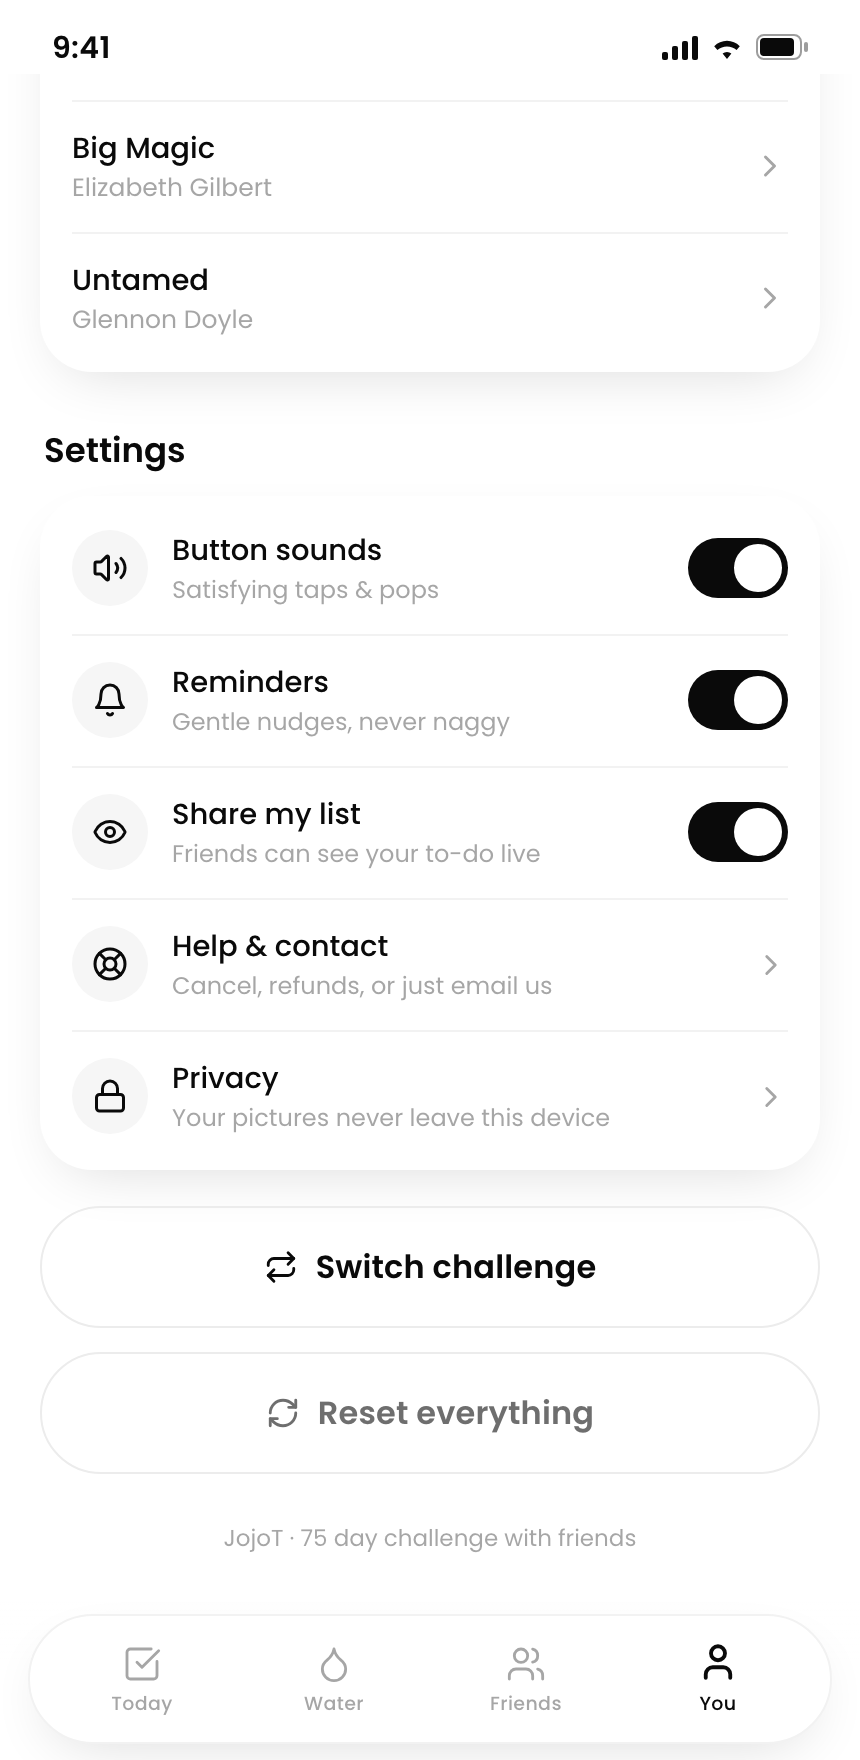
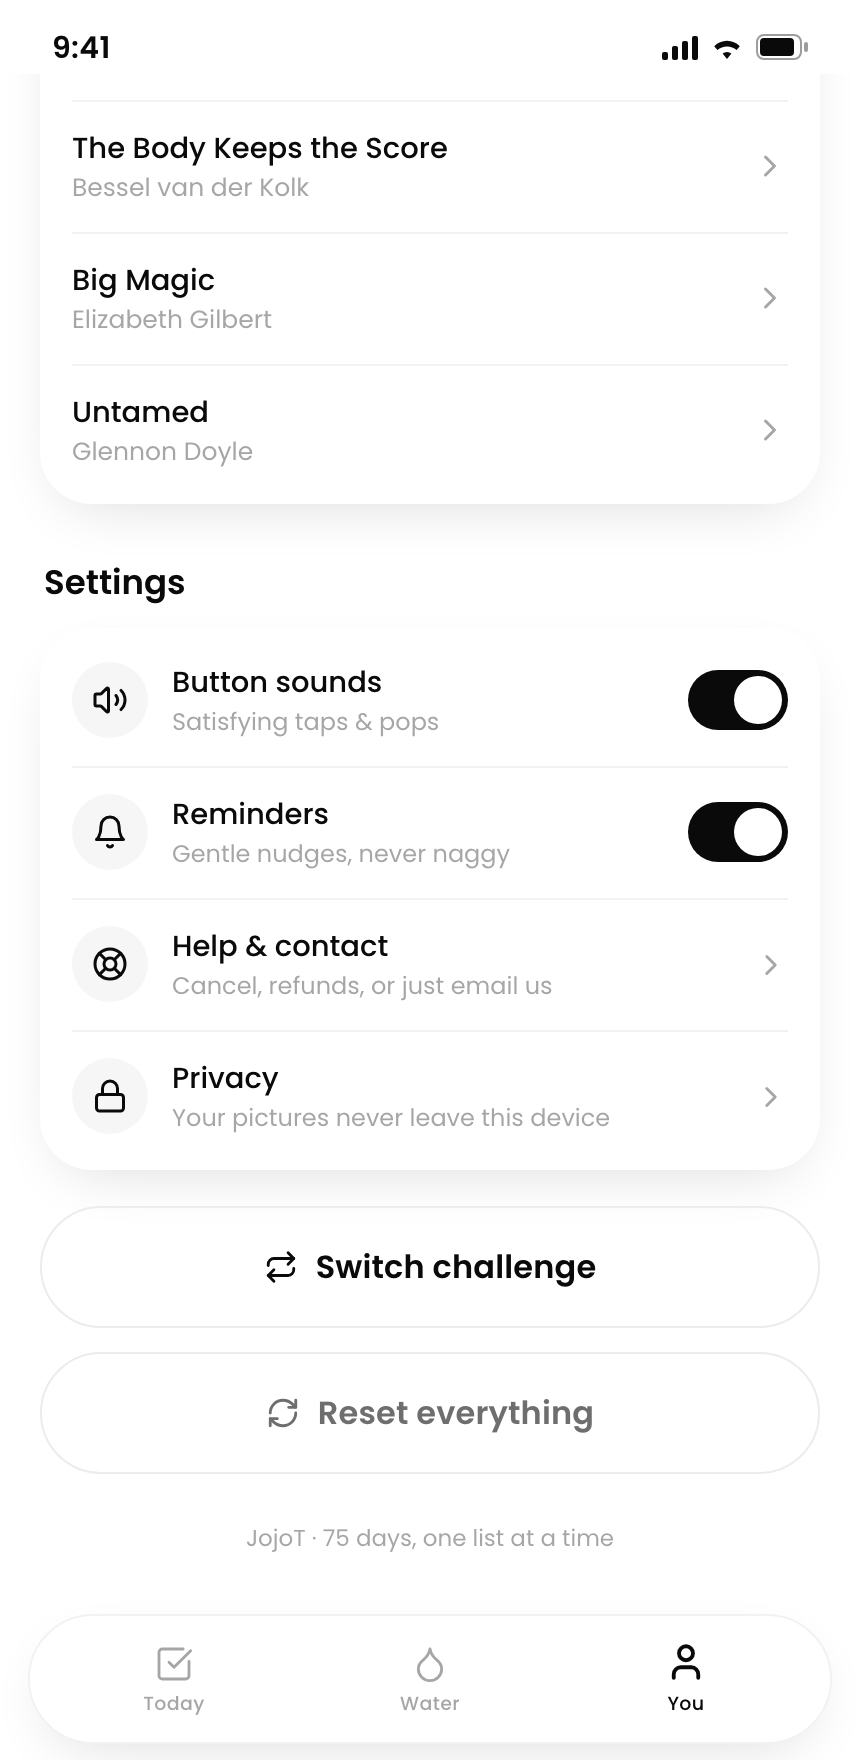
Remove the Friends feature — it was the last false paywall claim
"See your friends' to-do lists in real time" was the headline
promise, and behind it were five hardcoded people in data.ts whose
lists never moved. No accounts, no network calls, nothing to be
real-time about. A reviewer opening that tab finds it in seconds,
and it is a Guideline 2.3.1 rejection, not a rough edge.

With Supabase deferred until after launch, the honest move is to
ship without it: tab, screen, fixtures and paywall bullet all gone,
along with the onboarding slide and settings toggle that promised
the same thing. Everything the paywall now sells is something the
build actually does.

This comes back in 1.1 with a backend under it. The shareWithFriends
flag stays in persisted state so returning users keep their setting.

Claude-Session: https://claude.ai/code/session_018C9xQwzrZSWhcVwAr8vDtd

diff --git a/src/lib/data.ts b/src/lib/data.ts
@@ -1,5 +1,5 @@
 /* ============================================================
-   data.ts — challenge presets, seed friends, inspiration.
+   data.ts — challenge presets and inspiration boards.
 
    Task `kind` drives how a row behaves on the Today screen:
      check  — plain tick
@@ -187,94 +187,10 @@ export const NOTE_COLORS = [
   'var(--note-6)',
 ]
 
-/* ------------------------------------------------------------------ */
-/* Friends                                                             */
-/* ------------------------------------------------------------------ */
-
-export type FriendTask = { text: string; done: boolean; at?: string }
-
-export type Friend = {
-  id: string
-  name: string
-  initial: string
-  tone: string
-  day: number
-  challenge: string
-  tasks: FriendTask[]
-}
-
-export const FRIENDS: Friend[] = [
-  {
-    id: 'f1',
-    name: 'Maddy',
-    initial: 'M',
-    tone: 'linear-gradient(135deg,#8e8e8e,#3f3f3f)',
-    day: 75,
-    challenge: '75 Hard',
-    tasks: [
-      { text: 'Walk 10,000 steps', done: false },
-      { text: 'Read 10 pages', done: false },
-      { text: 'Workout', done: false },
-      { text: 'Follow a strict diet', done: true, at: '11:45am' },
-    ],
-  },
-  {
-    id: 'f2',
-    name: 'Anna',
-    initial: 'A',
-    tone: 'linear-gradient(135deg,#a8a8a8,#585858)',
-    day: 75,
-    challenge: '75 Hard',
-    tasks: [
-      { text: 'Walk 10,000 steps', done: false },
-      { text: 'Read 10 pages', done: false },
-      { text: 'Workout', done: true, at: '10:45am' },
-      { text: 'Follow a strict diet', done: true, at: '11:45am' },
-    ],
-  },
-  {
-    id: 'f3',
-    name: 'Blake',
-    initial: 'B',
-    tone: 'linear-gradient(135deg,#c2c2c2,#767676)',
-    day: 75,
-    challenge: '75 Medium',
-    tasks: [
-      { text: 'Walk 10,000 steps', done: false },
-      { text: 'Read 10 pages', done: false },
-      { text: 'Workout', done: false },
-      { text: 'Follow a strict diet', done: false },
-    ],
-  },
-  {
-    id: 'f4',
-    name: 'Sofia',
-    initial: 'S',
-    tone: 'linear-gradient(135deg,#9a9a9a,#4c4c4c)',
-    day: 42,
-    challenge: '75 Soft',
-    tasks: [
-      { text: 'Drink 3 L of water', done: true, at: '9:10am' },
-      { text: 'Train 45 minutes', done: true, at: '7:30am' },
-      { text: 'Read 10 pages', done: false },
-      { text: 'Eat well', done: true, at: '1:20pm' },
-    ],
-  },
-  {
-    id: 'f5',
-    name: 'Priya',
-    initial: 'P',
-    tone: 'linear-gradient(135deg,#b4b4b4,#666666)',
-    day: 22,
-    challenge: 'Glow Within',
-    tasks: [
-      { text: 'AM + PM skincare', done: true, at: '8:05am' },
-      { text: 'Walk 10,000 steps', done: false },
-      { text: 'Sleep 8 hours', done: true, at: '6:50am' },
-      { text: 'Gratitude', done: false },
-    ],
-  },
-]
+/* Friends were seeded fixtures — five hardcoded people whose lists never
+   moved. The paywall sold "see your friends' lists in real time", which
+   made them a Guideline 2.3.1 problem, not just an unfinished feature.
+   Feature and fixtures both removed until there is a backend behind it. */
 
 /* ------------------------------------------------------------------ */
 /* Inspiration boards                                                  */

diff --git a/src/screens/Today.tsx b/src/screens/Today.tsx
@@ -1,5 +1,5 @@
 /* ============================================================
-   Today.tsx — the daily home: day counter, friends row, and
+   Today.tsx — the daily home: day counter and
    your to-do list for the day (editable, water/steps/photo aware).
    ============================================================ */
 
@@ -8,7 +8,6 @@ import { AnimatePresence, motion } from 'framer-motion'
 import { Plus, Pencil, X, Camera, Check, ChevronRight, Image as ImageIcon, Share2 } from 'lucide-react'
 import { useApp } from '../lib/store'
 import { shareDay } from '../lib/shareCard'
-import { FRIENDS } from '../lib/data'
 import { CheckCircle, IconButton, MoodTile, Sheet, SoundButton, Tappable, Toast } from '../components/ui'
 import Confetti from '../components/Confetti'
 import { playSound } from '../lib/sound'
@@ -16,7 +15,7 @@ import { haptic } from '../lib/haptics'
 import { capturePhoto, isTone, type PhotoSource } from '../lib/photos'
 import { usePhoto } from '../lib/usePhoto'
 
-export default function Today({ goHydrate, goFriends }: { goHydrate: () => void; goFriends: () => void }) {
+export default function Today({ goHydrate }: { goHydrate: () => void }) {
   const {
     state,
     challenge,
@@ -155,47 +154,6 @@ export default function Today({ goHydrate, goFriends }: { goHydrate: () => void;
               Back to today
             </button>
           )}
-        </div>
-
-        {/* ---- friends row ---- */}
-        <div className="row gap-3" style={{ marginTop: 22, justifyContent: 'center' }}>
-          {FRIENDS.slice(0, 3).map((f) => {
-            const active = f.tasks.some((t) => t.done)
-            return (
-              <Tappable
-                key={f.id}
-                sound="tap"
-                onClick={goFriends}
-                ariaLabel={`${f.name}, day ${f.day}`}
-                className={`ring ${active ? '' : 'off'}`}
-                style={{ cursor: 'pointer' }}
-              >
-                <div className="avatar" style={{ width: 62, height: 62, background: f.tone, fontSize: 22 }}>
-                  {f.initial}
-                </div>
-              </Tappable>
-            )
-          })}
-          <Tappable
-            sound="pop"
-            onClick={() => say('Invite link copied')}
-            style={{
-              width: 68,
-              height: 68,
-              borderRadius: '50%',
-              border: '1.5px dashed var(--ink-ghost)',
-              display: 'grid',
-              placeItems: 'center',
-              textAlign: 'center',
-              cursor: 'pointer',
-            }}
-          >
-            <span style={{ fontSize: 10.5, lineHeight: 1.15, color: 'var(--ink-soft)', fontWeight: 500 }}>
-              Add
-              <br />
-              Friends
-            </span>
-          </Tappable>
         </div>
 
         {/* ---- list header ---- */}

diff --git a/src/screens/Profile.tsx b/src/screens/Profile.tsx
@@ -8,7 +8,6 @@ import { motion } from 'framer-motion'
 import {
   Bell,
   ChevronRight,
-  Eye,
   LifeBuoy,
   Lock,
   RefreshCw,
@@ -34,7 +33,6 @@ export default function Profile() {
     resetAll,
     cancelSubscription,
     setReminders,
-    setShare,
   } = useApp()
 
   const [soundOn, setSoundOn] = useState(isSoundEnabled())
@@ -233,12 +231,6 @@ export default function Profile() {
             sub="Gentle nudges, never naggy"
             control={<Toggle on={state.remindersOn} onChange={(v) => void toggleReminders(v)} />}
           />
-          <SettingRow
-            icon={<Eye size={18} />}
-            title="Share my list"
-            sub="Friends can see your to-do live"
-            control={<Toggle on={state.shareWithFriends} onChange={setShare} />}
-          />
           <Tappable
             sound="tap"
             onClick={() => void openUrl(SUPPORT_URL)}
@@ -286,7 +278,7 @@ export default function Profile() {
         </div>
 
         <p className="faint" style={{ textAlign: 'center', fontSize: 11.5, marginTop: 16 }}>
-          JojoT · 75 day challenge with friends
+          JojoT · 75 days, one list at a time
         </p>
       </div>
 

diff --git a/src/screens/Onboarding.tsx b/src/screens/Onboarding.tsx
@@ -19,15 +19,15 @@ const SLIDES: Slide[] = [
     tones: ['#2b2b2b', '#6b6b6b', '#4a4a4a', '#8f8f8f'],
   },
   {
-    title: 'Do it',
-    em: 'together',
-    body: 'Your friends’ lists, live next to yours. Nobody quietly quits when everyone can see.',
-    tones: ['#9a9a9a', '#c4c4c4', '#7e7e7e', '#dcdcdc'],
-  },
-  {
     title: 'One list,',
     em: 'every day',
     body: 'Water, steps, workouts, reading, progress pictures — tracked in one place, every day.',
+    tones: ['#9a9a9a', '#c4c4c4', '#7e7e7e', '#dcdcdc'],
+  },
+  {
+    title: 'Watch it',
+    em: 'add up',
+    body: 'Every day you finish fills in. Share the card when a run of them starts to look good.',
     tones: ['#d4d4d4', '#b0b0b0', '#e6e6e6', '#c2c2c2'],
   },
 ]
@@ -109,7 +109,7 @@ export default function Onboarding() {
                 <em>call you?</em>
               </h1>
               <p className="muted" style={{ fontSize: 14.5, textAlign: 'center', margin: '12px 0 26px' }}>
-                This is the name your friends will see.
+                This is the name on your progress cards.
               </p>
               <input
                 className="field"

diff --git a/src/App.tsx b/src/App.tsx
@@ -14,7 +14,6 @@ import Paywall from './screens/Paywall'
 import ChallengeSelect from './screens/ChallengeSelect'
 import Today from './screens/Today'
 import Hydrate from './screens/Hydrate'
-import Friends from './screens/Friends'
 import Profile from './screens/Profile'
 import { primeAudio } from './lib/sound'
 import { resyncQuietly } from './lib/reminders'
@@ -61,11 +60,8 @@ export default function App() {
           {flow === 'app' && (
             <>
               <motion.div key={tab} {...slide} className="screen">
-                {tab === 'today' && (
-                  <Today goHydrate={() => setTab('hydrate')} goFriends={() => setTab('friends')} />
-                )}
+                {tab === 'today' && <Today goHydrate={() => setTab('hydrate')} />}
                 {tab === 'hydrate' && <Hydrate />}
-                {tab === 'friends' && <Friends />}
                 {tab === 'profile' && <Profile />}
               </motion.div>
               <TabBar active={tab} onChange={setTab} />

diff --git a/src/components/TabBar.tsx b/src/components/TabBar.tsx
@@ -3,7 +3,7 @@
    ============================================================ */
 
 import { motion } from 'framer-motion'
-import { CheckSquare, Droplet, Users, User } from 'lucide-react'
+import { CheckSquare, Droplet, User } from 'lucide-react'
 import type { Tab } from '../lib/store'
 import { playSound, primeAudio } from '../lib/sound'
 import { haptic } from '../lib/haptics'
@@ -11,7 +11,6 @@ import { haptic } from '../lib/haptics'
 const TABS: { id: Tab; label: string; icon: typeof User }[] = [
   { id: 'today', label: 'Today', icon: CheckSquare },
   { id: 'hydrate', label: 'Water', icon: Droplet },
-  { id: 'friends', label: 'Friends', icon: Users },
   { id: 'profile', label: 'You', icon: User },
 ]
 

diff --git a/src/screens/Paywall.tsx b/src/screens/Paywall.tsx
@@ -31,7 +31,6 @@ import { linkHandler } from '../lib/openUrl'
 
 const PERKS = [
   'Every challenge — 75 Hard, Medium, Soft & more',
-  'See your friends’ to-do lists in real time',
   'Build your own challenge and to-do list',
   'Water, steps & daily progress pictures',
   'Share your day as a progress card',

diff --git a/src/components/ui.tsx b/src/components/ui.tsx
@@ -132,7 +132,7 @@ export function CheckCircle({
   onClick,
 }: {
   on: boolean
-  /** black fill (friends list) vs. the softer grey fill (your list) */
+  /** black fill vs. the softer grey fill */
   ink?: boolean
   size?: 'sm' | 'md'
   onClick?: () => void

diff --git a/src/lib/store.tsx b/src/lib/store.tsx
@@ -10,7 +10,7 @@ import { deletePhoto } from './photos'
 
 const KEY = 'jojot:state:v1'
 
-export type Tab = 'today' | 'hydrate' | 'friends' | 'profile'
+export type Tab = 'today' | 'hydrate' | 'profile'
 
 type DayLog = {
   /** completed task ids */

diff --git a/README.md b/README.md
@@ -1,10 +1,10 @@
 # JojoT
 
-**Complete a 75 day challenge with your friends — and see their to-do lists in real time.**
+**Complete a 75 day challenge — one list at a time.**
 
-Pick a 75-day challenge — or write your own — and work one list a day. Water,
-steps and a daily progress picture are tracked alongside it, and your friends'
-lists sit next to yours so nobody quietly drops out.
+Pick a 75-day challenge, or write your own, and work one list a day. Water,
+steps and a daily progress picture are tracked alongside it, and every day you
+finish fills in a grid you can share.
 
 React + Vite, wrapped for native with Capacitor.
 
@@ -20,13 +20,12 @@ There is no free tier: subscribing or restoring a purchase is the only way in.
 
 | Screen | What it does |
 | --- | --- |
-| **Onboarding** | Three editorial slides (*Become that girl* / *Do it with friends* / *Follow your routine*) then your name |
+| **Onboarding** | Three editorial slides (*Keep the promise* / *One list, every day* / *Watch it add up*) then your name |
 | **Paywall** | Weekly $7.99 · Monthly $14.99 · Yearly $49.99, Restore Purchases, auto-renewal disclosure, Terms & Privacy |
 | **Select your challenge** | 75 Day Hard, 75 Medium, 75 Soft, Glow Within, Better Me, Sugar Free, Mental Wellness — plus **Create your own** |
 | **Challenge detail** | `+N joined` pill, mood board, the numbered sticky-note rule list, join CTA |
-| **Today** | `Day N`, day-scrubber segments, friends row, your editable to-do list with live water / step / photo readouts |
+| **Today** | `Day N`, day-scrubber segments, your editable to-do list with live water / step / photo readouts, share card |
 | **Water** | Tumbler that fills, ±250 ml, quick adds, goal taken from the active challenge, auto-ticks the water task at 100% |
-| **Friends** | Everyone's list with completion times |
 | **You** | Stats, subscription management, inspiration boards, reading list, settings, switch challenge, reset |
 
 Screenshots live in [`shots/`](shots/).
